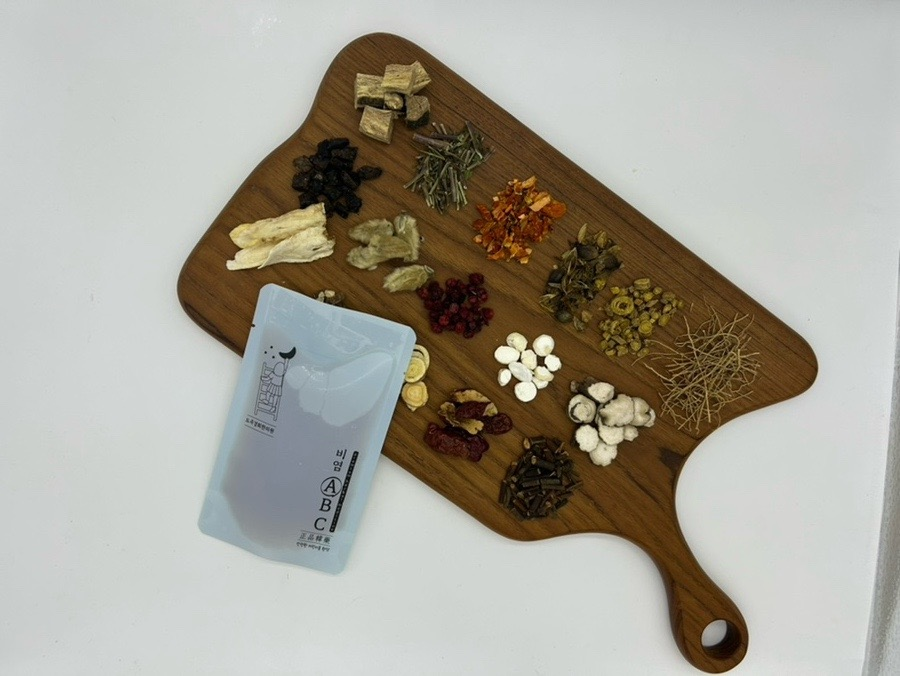
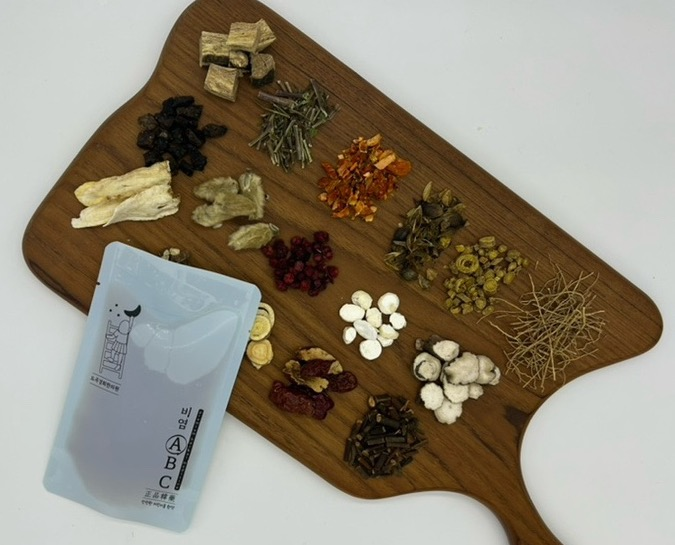
Crop 비염ABC photo to trim margins and shadow

diff --git a/src/app/treatment/rhinitis/page.tsx b/src/app/treatment/rhinitis/page.tsx
@@ -134,8 +134,8 @@ export default function RhinitisPage() {
             <Image
               src="/biyeom-abc.jpg"
               alt="도곡경희한의원 비염ABC 한약과 엄선한 약재"
-              width={900}
-              height={676}
+              width={675}
+              height={545}
               className="w-full h-auto"
               sizes="(max-width: 768px) 100vw, 672px"
             />
